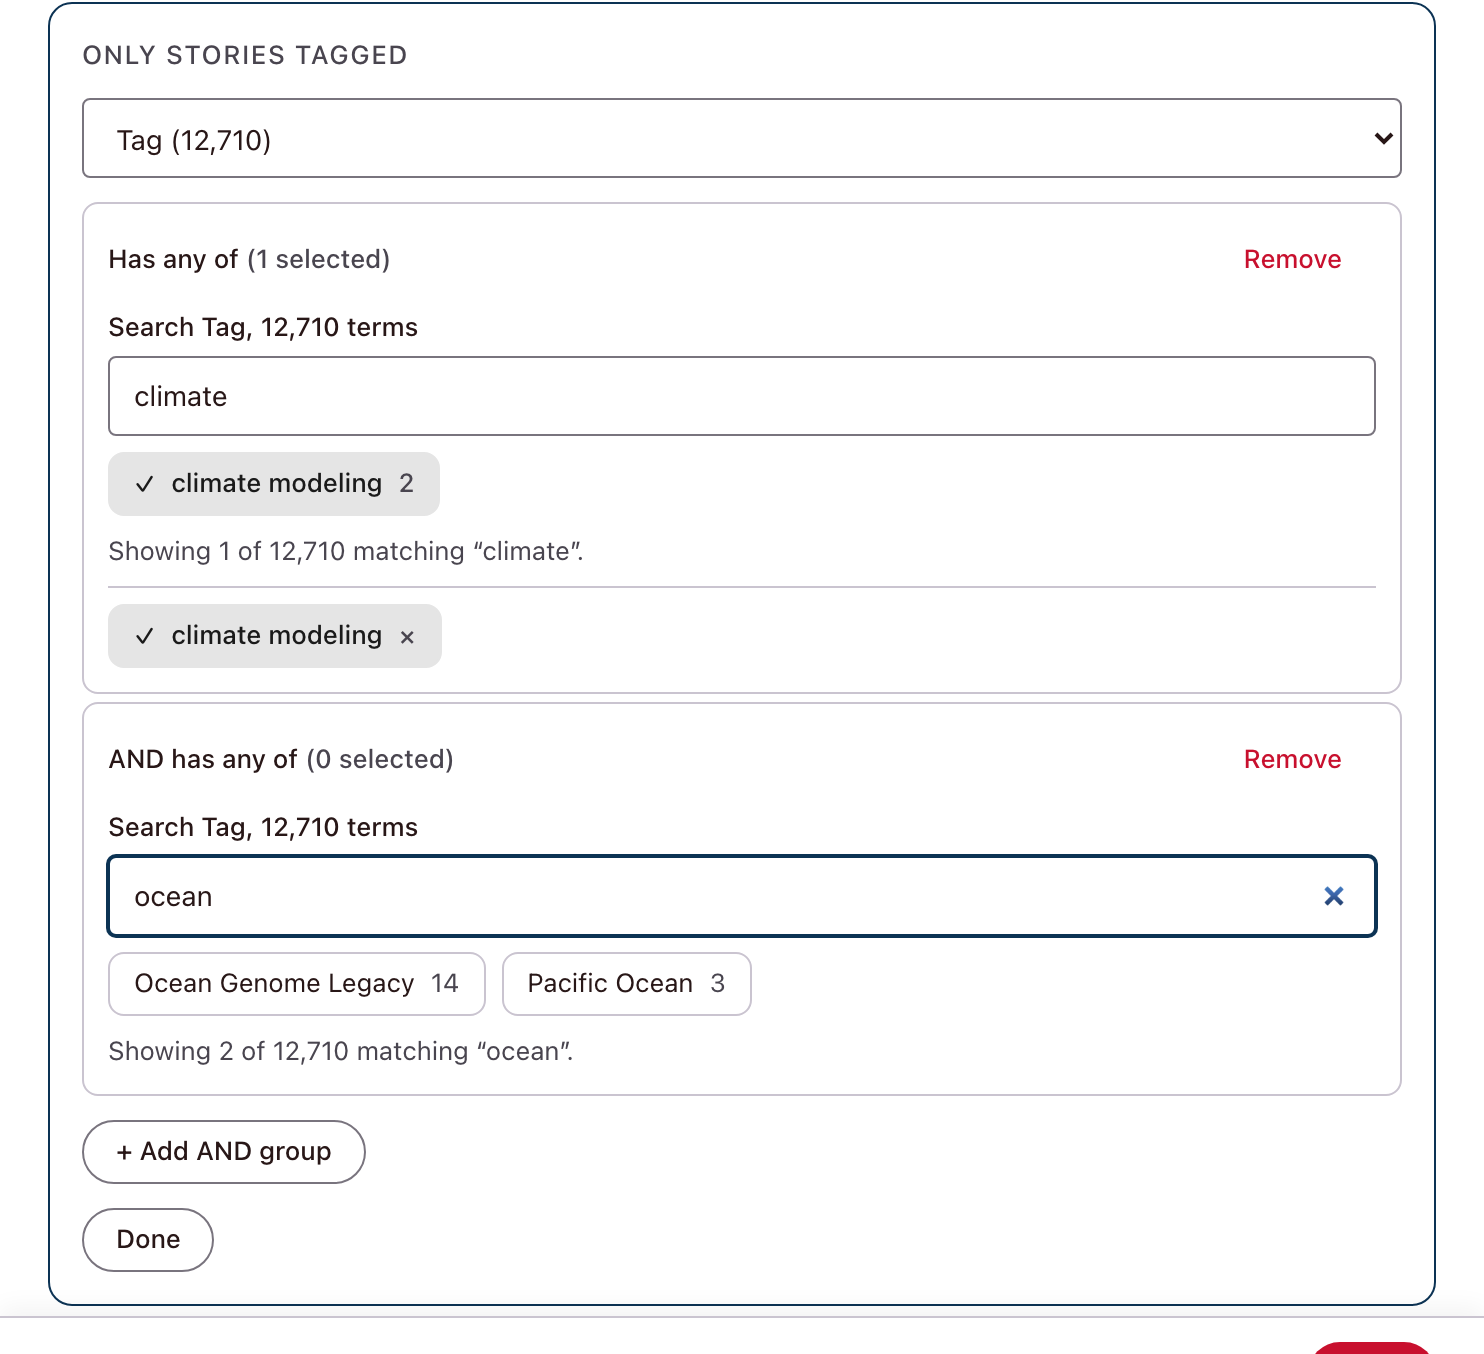
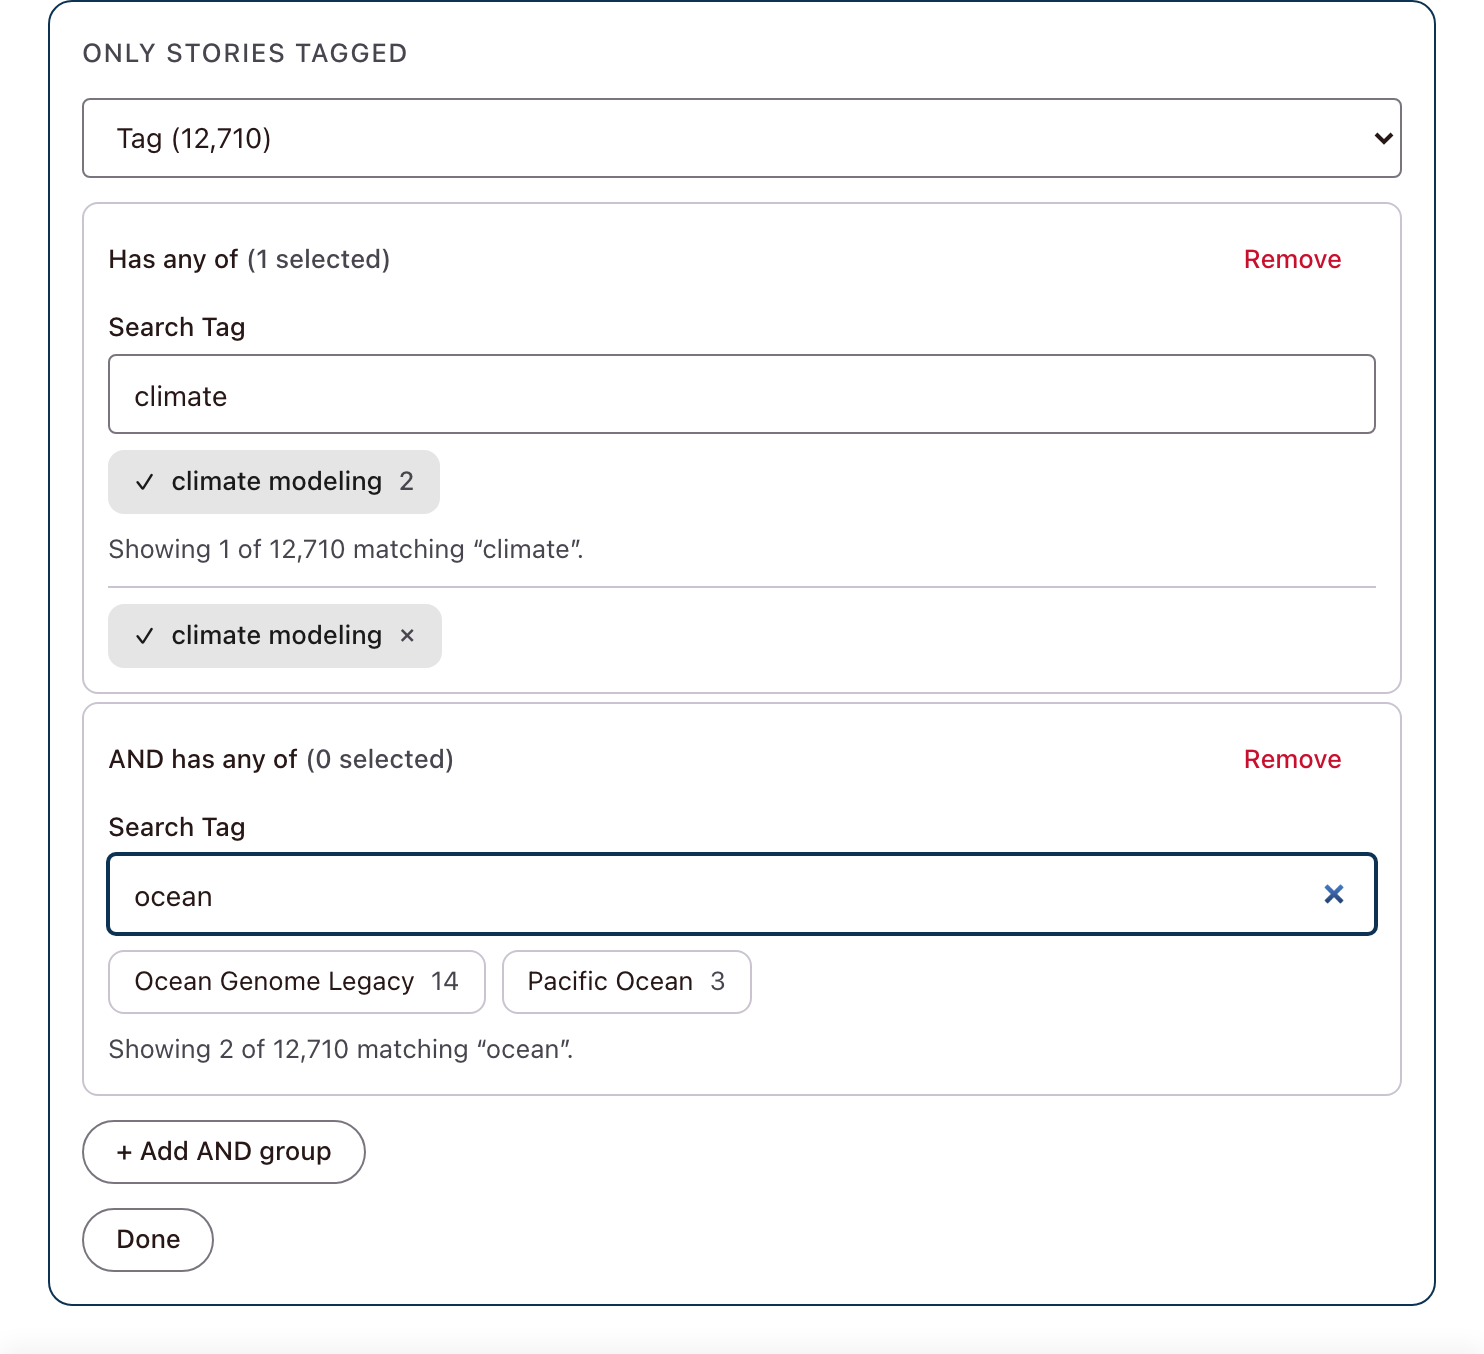
Copy pass: shorter, plainer, no em dashes
The manual search note spent 32 words explaining the old screen's internals.
Ten sentences rewritten, and 'but not nothing' is now 'skipping nothing'.

diff --git a/08-settings-sentence-workbench.html b/08-settings-sentence-workbench.html
@@ -3,7 +3,7 @@
 <head>
 <meta charset="utf-8">
 <meta name="viewport" content="width=device-width, initial-scale=1">
-<title>Settings E — The sentence, in the pane · NUEAC-398</title>
+<title>Settings E: the sentence, in the pane · NUEAC-398</title>
 <link rel="stylesheet" href="assets/ngn-v2.css?v=202610231423">
 <style>
 .panes { display: grid; grid-template-columns: minmax(250px, 320px) minmax(0, 1fr); gap: var(--ngn-space-4); align-items: start; }
@@ -82,7 +82,7 @@
 <body>
 
 <div class="proto-bar">
-  <strong>NUEAC-398 · Settings E — The sentence, in the pane</strong>
+  <strong>NUEAC-398 · Settings E: the sentence, in the pane</strong>
   <span class="sep">|</span>
   <a href="index.html">All designs</a>
   <span class="sep">|</span>
@@ -93,9 +93,8 @@
 <div class="wrap">
   <h1 class="t-headline" style="margin:0 0 4px">Curated Posts</h1>
   <p class="t-body-sm muted" style="margin:0 0 var(--ngn-space-4);max-width:74ch">
-    C's sentence with D's layout. The rule still reads as one plain line you can hand to
-    anyone, but it lives in the pane rather than over the list, so the shelves stay on
-    screen and unsaved work survives switching between them.
+    The rule reads as one plain sentence. Click any underlined word to change it. The
+    shelf list stays on screen the whole time, and unsaved work is kept per shelf.
   </p>
 
   <div class="panes">
@@ -124,7 +123,7 @@
       <p class="rule" id="rule"></p>
 
       <div class="result">
-        <b id="count">—</b>
+        <b id="count">&ndash;</b>
         <span class="t-body-sm muted">stories match this rule right now</span>
         <span class="note">prototype figure</span>
       </div>
@@ -198,7 +197,7 @@
         (!isEx && draft.include.length > 1
           ? '<button class="btn btn-text btn-sm" type="button" data-dropgroup="' + gi + '">Remove</button>' : '') +
       '</div>' +
-      (big ? '<div class="field"><label for="e-q-' + gi + '">Search ' + esc(tax.n) + ', ' + tax.count.toLocaleString() + ' terms</label>' +
+      (big ? '<div class="field"><label for="e-q-' + gi + '">Search ' + esc(tax.n) + '</label>' +
         '<input type="search" id="e-q-' + gi + '" data-q="' + gi + '" value="' + esc(q) + '" placeholder="Type a name or a slug\u2026"></div>' : '') +
       '<div class="chips">' + shown.map(function (t) {
         var on = bucket.some(function (f) { return f.term === t.n; });
@@ -208,7 +207,7 @@
           ' <span class="muted">' + t.c.toLocaleString() + '</span></button>';
       }).join('') + '</div>' +
       (big ? '<p class="t-body-sm muted" style="margin:0">Showing ' + shown.length + ' of ' + tax.count.toLocaleString() +
-        (q ? ' matching \u201c' + esc(q) + '\u201d' : '. The live screen stops at 500, so typing is the only way past it') + '.</p>' : '') +
+        (q ? ' matching \u201c' + esc(q) + '\u201d.' : '. Type to find the rest.') + '</p>' : '') +
       (bucket.length ? '<div class="chips picked">' + bucket.map(function (f) {
         return '<span class="chip' + (isEx ? ' chip-exclude' : ' is-on') + '">' + esc(f.term) +
           ' <button class="chip-remove" type="button" data-rm="' + esc(f.term) + '" data-gi="' + gi +
@@ -232,17 +231,17 @@
     if (views) str += ' <span class="plain">from the last</span> ' + tok('window', draft.windowDays + ' days');
 
     str += ' <span class="plain">in</span> ' + groupTokens() +
-      ', <span class="plain">but not</span> ' +
+      ', <span class="plain">skipping</span> ' +
       tok('exclude', draft.exclude.length ? draft.exclude.map(function (f) { return f.term; }).join(' or ') : 'nothing', !draft.exclude.length) +
       '<span class="plain">.</span>';
 
     str += views
-      ? '<br><span class="plain">A most-viewed order changes on its own, so there is no rotation.</span>'
+      ? '<br><span class="plain">Most viewed reshuffles itself, so there is no rotation.</span>'
       : draft.rotation.on
         ? '<br><span class="plain">Rotate them</span> ' + tok('rotation', 'every ' + draft.rotation.interval) + '<span class="plain">.</span>'
         : '<br>' + tok('rotation', 'They never rotate', true) + '<span class="plain">.</span>';
 
-    str += '<br><span class="plain">When someone pins a story by hand, search</span> ' +
+    str += '<br><span class="plain">When you pin a story by hand, search</span> ' +
       tok('searchTypes', draft.searchTypes === null ? 'the same types' : (draft.searchTypes.length ? draft.searchTypes.map(typeName).join(' or ') : 'nothing'), draft.searchTypes === null) +
       '<span class="plain">.</span>';
 
@@ -257,12 +256,12 @@
     if (open === 'count') return '<div class="editor">' + head('How many stories') +
       '<input type="number" id="e-count" min="1" max="50" value="' + draft.count + '" style="width:120px">' +
       '<p class="t-body-sm muted" style="margin:0">1 to 50.</p>' + done + '</div>';
-    if (open === 'window') return '<div class="editor">' + head('How far back a most-viewed sort looks') +
+    if (open === 'window') return '<div class="editor">' + head('How far back to look') +
       '<div style="display:flex;gap:8px;align-items:center"><input type="number" id="e-window" min="1" value="' + draft.windowDays + '" style="width:110px"><span class="t-body-sm muted">days</span></div>' + done + '</div>';
     if (open === 'sort') return '<div class="editor">' + head('Order') + '<div class="chips">' +
       ['Newest', 'Most viewed'].map(function (o) { return '<button class="chip' + (draft.sort === o ? ' is-on' : '') + '" type="button" data-sort="' + o + '">' + o + '</button>'; }).join('') +
       '</div>' + done + '</div>';
-    if (open === 'types') return '<div class="editor">' + head('Where the stories come from') + '<div class="chips">' +
+    if (open === 'types') return '<div class="editor">' + head('Where stories come from') + '<div class="chips">' +
       POST_TYPES.map(function (t) {
         return '<button class="chip' + (draft.types.indexOf(t.k) > -1 ? ' is-on' : '') + '" type="button" data-type="' + t.k + '"' +
           (t.tax.length ? '' : ' title="No filterable taxonomies"') + '>' + esc(t.n) +
@@ -272,7 +271,7 @@
       taxonomiesFor(draft.types).length + ' taxonomies available</p>' + done + '</div>';
     if (open === 'searchTypes') {
       var custom = draft.searchTypes !== null;
-      return '<div class="editor">' + head('Types the manual search offers') +
+      return '<div class="editor">' + head('Types you can pin by hand') +
         '<label style="display:flex;gap:8px;align-items:center;cursor:pointer"><input type="checkbox" id="e-same" ' + (custom ? '' : 'checked') + '> <span class="t-label">Same as the types above</span></label>' +
         (custom ? '<div class="chips">' + POST_TYPES.map(function (t) {
           return '<button class="chip' + (draft.searchTypes.indexOf(t.k) > -1 ? ' is-on' : '') + '" type="button" data-stype="' + t.k + '"' +
@@ -280,15 +279,14 @@
             (t.tax.length ? '' : ' <span class="muted">\u00b7 no filters</span>') + '</button>';
         }).join('') + '</div>' : '') +
         '<p class="t-body-sm muted" style="margin:0;border-top:1px solid var(--ngn-outline-variant);padding-top:var(--ngn-space-2)" id="e-manual-note">' +
-        'The live screen repeats every taxonomy picker under each of these types too. They all write to ' +
-        'the same filter, so the terms you set above already apply here \u2014 there is nothing extra to set.</p>' +
+        'Your filters above already apply here.</p>' +
         done + '</div>';
     }
     if (open === 'include' || open === 'exclude') {
       var isEx = open === 'exclude';
       var available = taxonomiesFor(draft.types);
       if (!available.length) return '<div class="editor">' + head('No filters available') +
-        '<p class="t-body-sm" style="margin:0">The chosen post types have no taxonomies to filter on.</p>' + done + '</div>';
+        '<p class="t-body-sm" style="margin:0">These post types have nothing to filter on.</p>' + done + '</div>';
       if (available.indexOf(taxKey) < 0) taxKey = available[0];
       var tax = TAXONOMIES[taxKey];
 

diff --git a/TICKETS.md b/TICKETS.md
@@ -322,3 +322,37 @@ no groups.
 Verified at 1280 and 1440: two boxes after Add, counts track per box, the two searches do
 not interfere, focus and caret survive typing, Remove drops the right group, axe clean,
 no overflow, no console errors.
+
+---
+
+## Copy pass on the whole design (`08`)
+
+Ten sentences rewritten. The worst was the manual search note, which spent 32 words and
+an em dash explaining what the old screen does internally:
+
+> The live screen repeats every taxonomy picker under each of these types too. They all
+> write to the same filter, so the terms you set above already apply here - there is
+> nothing extra to set.
+
+Now: "Your filters above already apply here." An editor does not need to know how the old
+screen was built, only whether there is anything left to do here.
+
+Others:
+
+- "but not nothing" was not English. The clause is now "skipping nothing", which reads as
+  a sentence whether or not anything is excluded.
+- "A most-viewed order changes on its own, so there is no rotation." became "Most viewed
+  reshuffles itself, so there is no rotation."
+- "When someone pins a story by hand" became "When you pin a story by hand."
+- The capped-list note was explaining the old screen's limit instead of what to do about
+  it: "The live screen stops at 500, so typing is the only way past it" became "Type to
+  find the rest."
+- The search label repeated the term count printed directly below it: "Search Tag, 12,710
+  terms" became "Search Tag."
+- Headings trimmed: "How far back a most-viewed sort looks" to "How far back to look",
+  "Types the manual search offers" to "Types you can pin by hand".
+- "The chosen post types have no taxonomies to filter on" became "These post types have
+  nothing to filter on."
+
+No em dashes anywhere on the page, checked against the rendered text rather than the
+source. Axe clean at 1280 and 1440, no overflow, no console errors.
